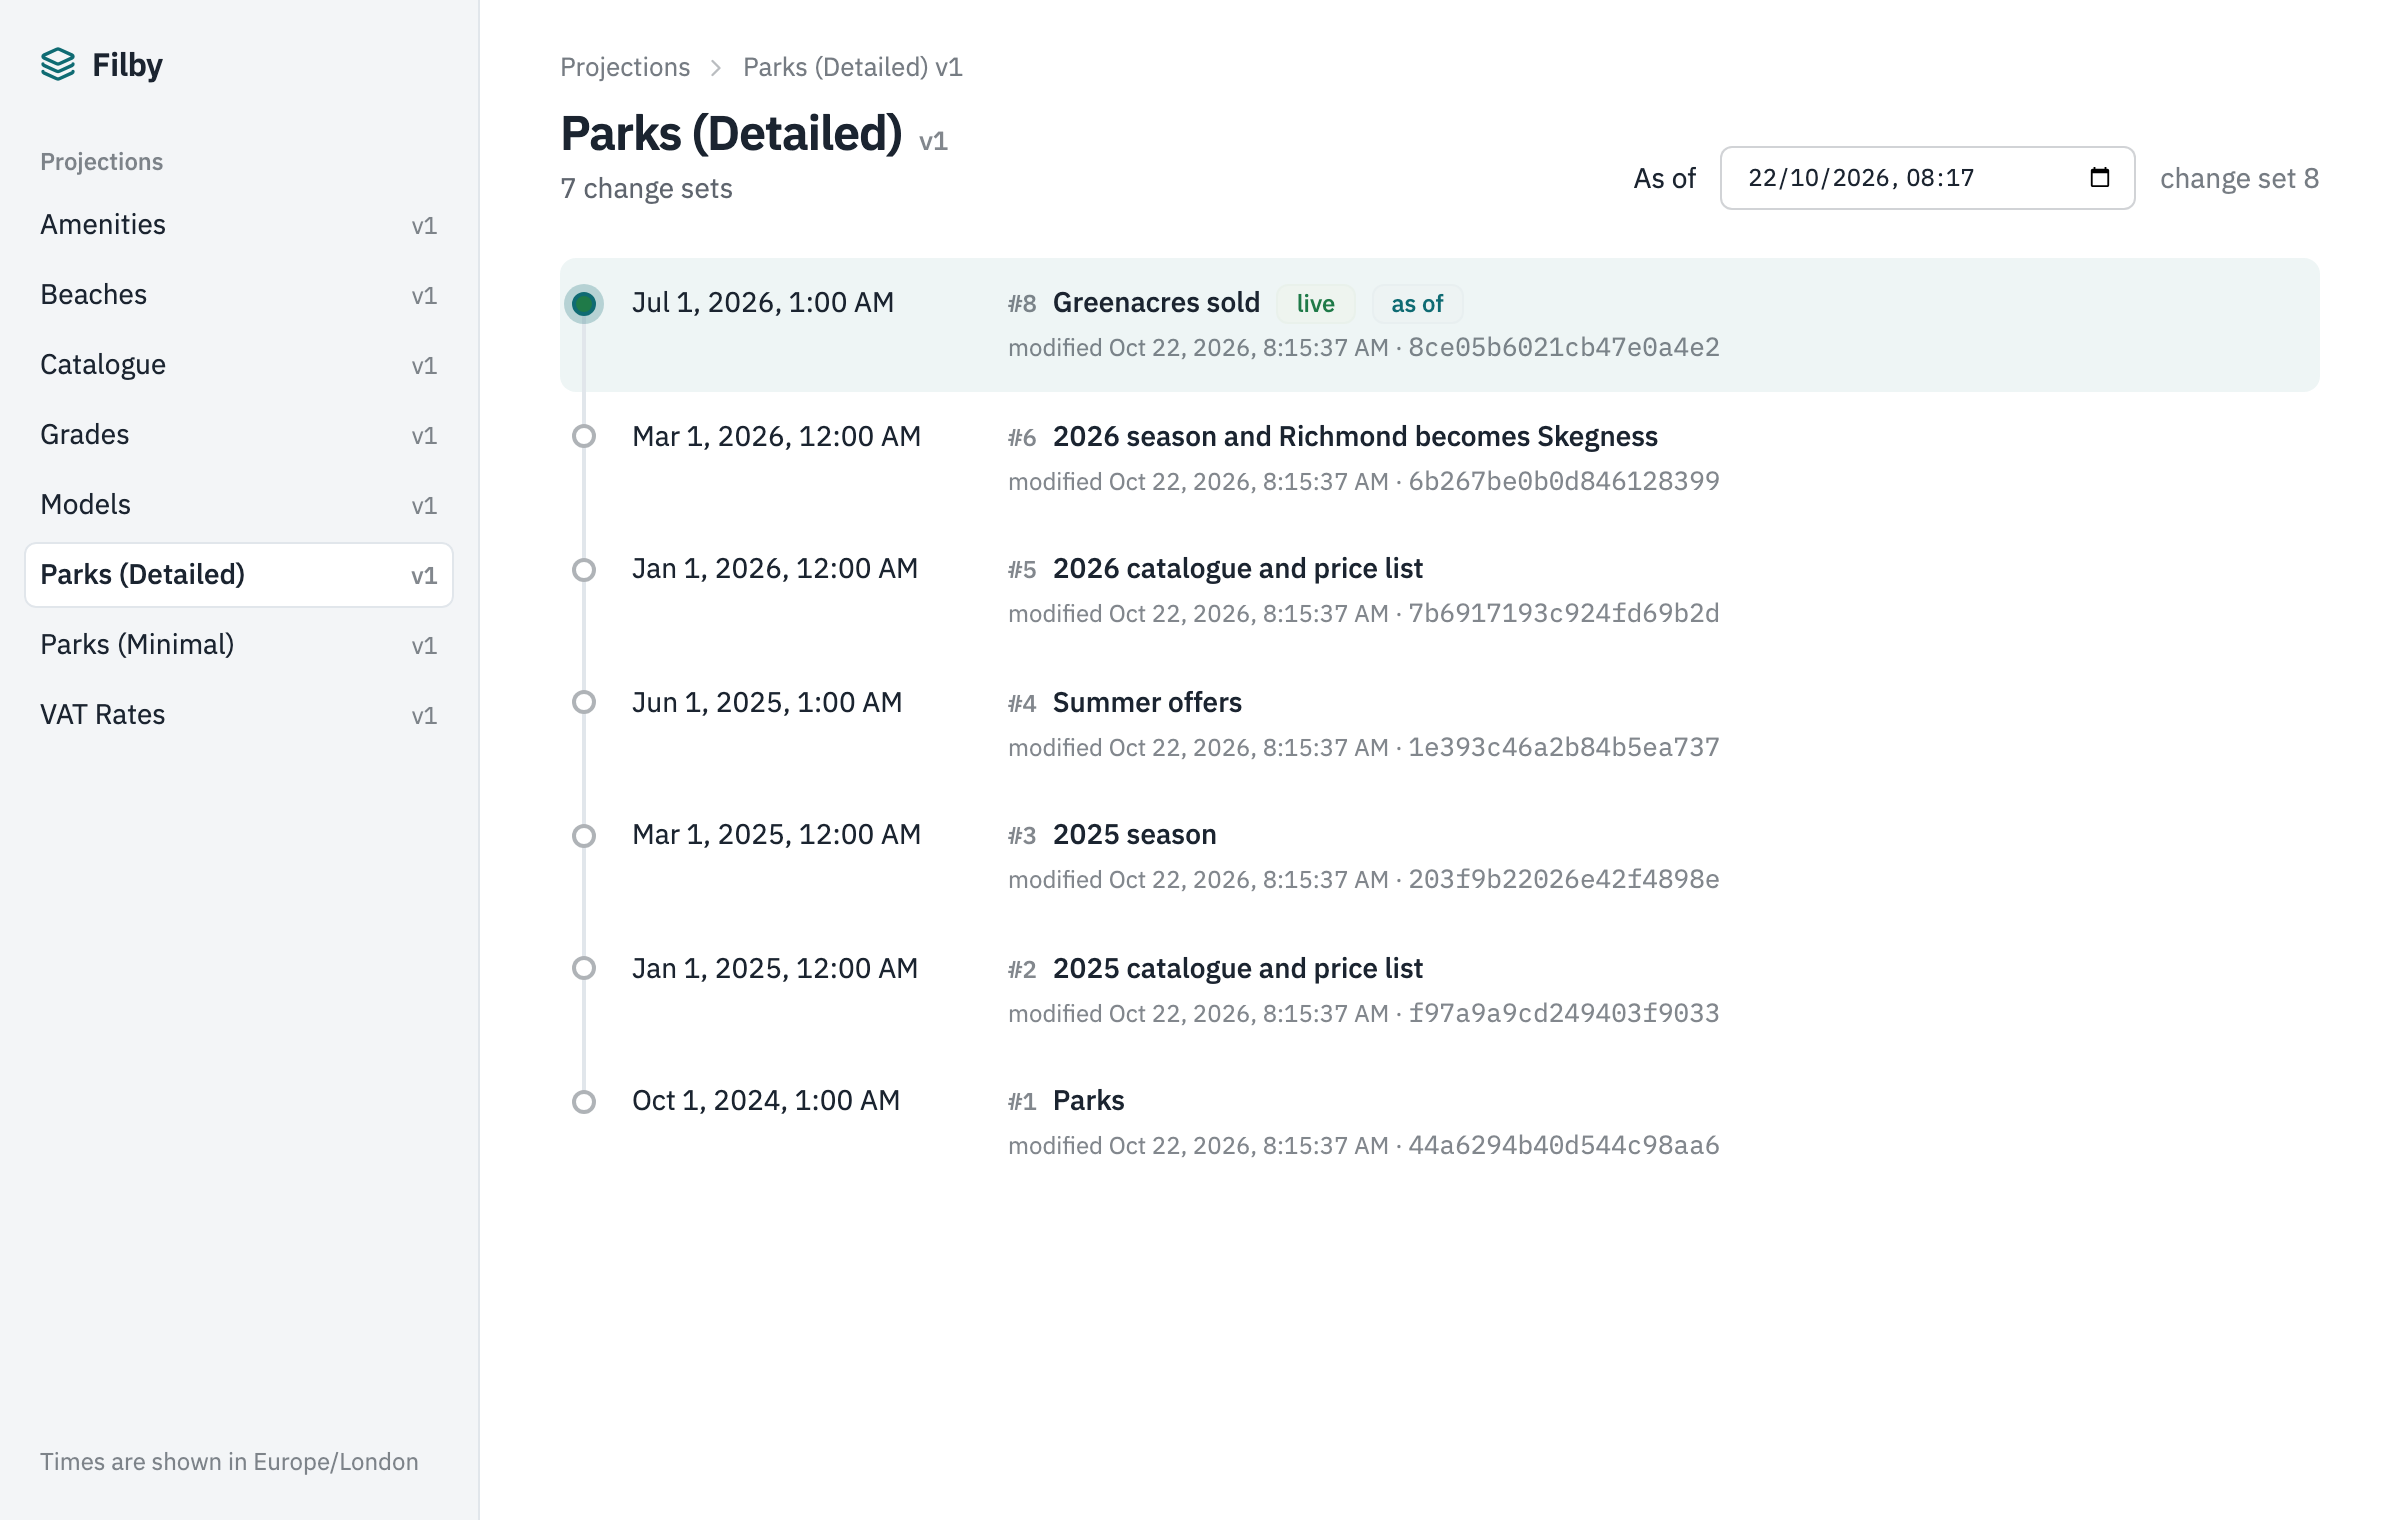
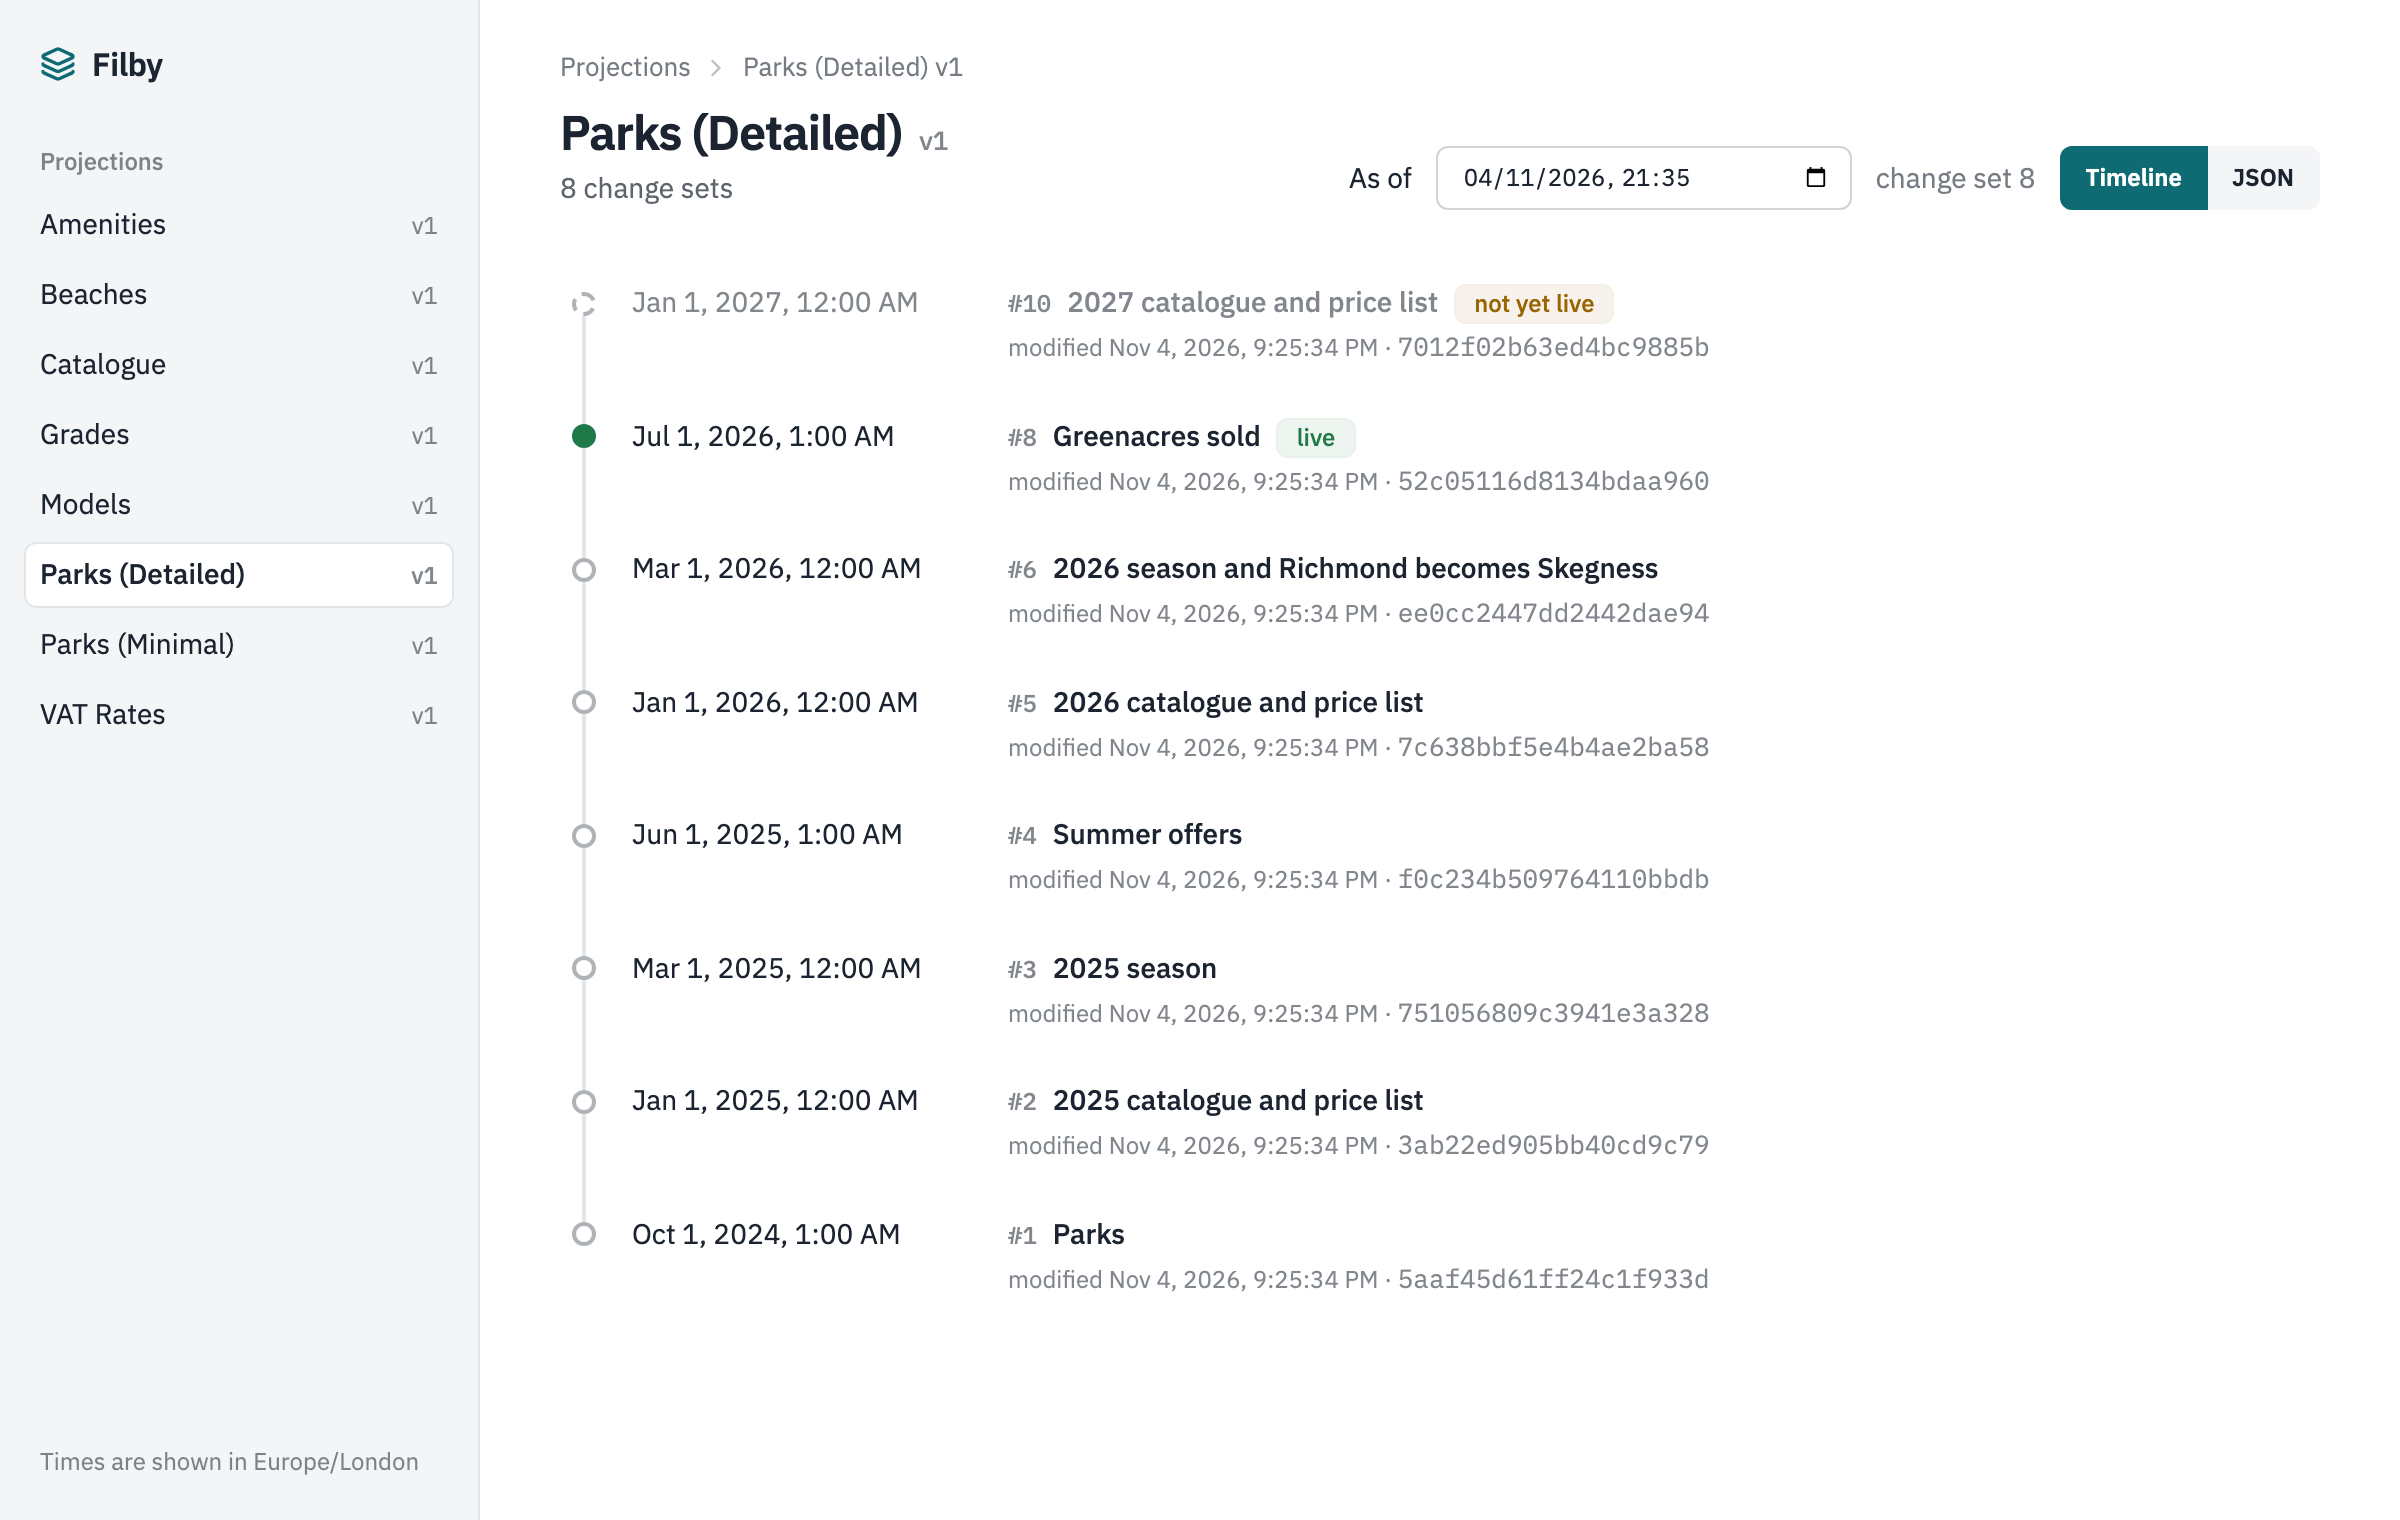
Retake the README screenshots against the Filby 1.0.0 example
The JSON toggle changed the headers of the change sets and documents
screens, the projections screen now labels every parameter with its
match, and the example's data changed: the change log has the 2027
catalogue as not yet live and amenities are link rows that carry only
the amenity lookup. Retake all three at the same size and framing.

The documents screen's filters now take two rows, so Devon Cliffs'
eight amenities push its beach routes out of the frame. Show Seashore,
which has four, so that both nests stay in view, and say so in the alt
text.

Fixes acuminous/filby-ui#10

diff --git a/ui/README.md b/ui/README.md
@@ -42,7 +42,7 @@ Every screen has a sidebar listing the projections, with the one on screen marke
 
 **Documents.** The documents of the projection at the change set from `GET /projections/<name>/v<n>?changeSetId=<id>`, as a table whose columns come from the OpenAPI response schema, with nested arrays rendered as sub-tables under their row to any depth and nulls shown muted. The sub-tables start collapsed, showing the nest's name and row count; one opens on click, a button above the table for each nest expands or collapses every row's, and the choice is remembered per projection in the browser's local storage. A lookup, the single object a document or nested row embeds for a many-to-one relationship, is flattened into the table as columns under their own names, with the column it is joined on underlined (the parent's, or the lookup's own when the projection keeps the join field there) and naming the lookup on hover, a column whose name clashes with another in the row prefixed with the lookup's name, and `null` in each of its columns where there is no record. A picker in the header moves between change sets without leaving the screen. The projection's declared parameters become filters (comma separated values for an `in` match, a from/to pair for a `range`, text for every other match), each captioned with the same label as on the projections screen, that are applied on submit and reflected in the URL, so a view can be linked to. A note under the filters names any parameter on a field inside a nest, because it selects which documents are returned and does not filter the nested rows inside them. Paging uses `page`, `pageSize`, `X-Total-Count` and the `Link` header, with a page size control bounded by the projection's maximum. Escape goes back to the change sets.
 
-![The documents screen showing Devon Cliffs with its amenities and beach routes expanded, each amenity and beach flattened into the row](docs/screenshots/documents.png)
+![The documents screen showing Seashore with its amenities and beach routes expanded, each amenity flattened into its row and the beach columns heading the beach routes](docs/screenshots/documents.png)
 
 **JSON view.** A toggle in the header of the change sets screen (`Timeline` / `JSON`) and the documents screen (`Table` / `JSON`) swaps the view for the response body the screen already fetched, pretty-printed and coloured, under its request URL and with a button to copy it, keeping the documents screen's filters and paging, reflecting the choice in the URL as `?view=json` and remembering it per screen in the browser's local storage.
 
